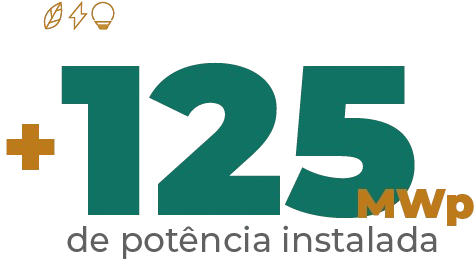
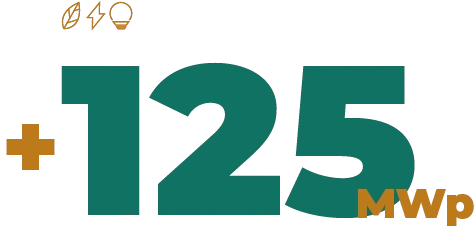
map component updated.

diff --git a/src/assets/components/layout/home/Mapa.jsx b/src/assets/components/layout/home/Mapa.jsx
@@ -17,15 +17,13 @@ function Mapa() {
           <img src="./images/125 completo.png" alt="125 MWp" className="destaque-img" />
         </div>
         <p className="texto-destaque">
-          e <strong>370</strong> colaboradores com
-          expertise técnica, garantindo excelência na gestão e execução de
-          obras em todo o país.
+          de potência instalada, garantindo excelência na gestão e execução de obras em todo o país.
         </p>
         <div className="map-btn" onClick={goTo}>
           <p>Conheça nosso portfólio</p>
         </div>
       </div>
-      <img src="./images/mapa do brasil 2.png" alt="Mapa do Brasil" loading="lazy" className="map-image" />
+      <img src="./images/mapa do brasil.webp" alt="Mapa do Brasil" loading="lazy" className="map-image" />
     </div>
   );
 }

diff --git a/src/assets/components/layout/home/CooperadaCoelba.css b/src/assets/components/layout/home/CooperadaCoelba.css
@@ -2,8 +2,7 @@
     background-color: white;
     /* Light grey background to distinguish section */
     padding: 4rem 2rem;
-    font-family: Arial, sans-serif;
-    color: #333;
+    color: #616160;
 }
 
 .cooperada-content {
@@ -49,20 +48,22 @@
 
 .cooperada-block {
     flex: 1;
-    background-color: white;
+    background-color: #047060;
     padding: 2rem;
     border-radius: 8px;
     box-shadow: 0 4px 6px rgba(0, 0, 0, 0.1);
     text-align: center;
-    font-weight: 400;
+    font-weight: 500;
     display: flex;
     align-items: center;
     justify-content: center;
     min-height: 100px;
-    color: #616160;
+    color: white;
+}
 
-
-    /* Theme color top border */
+.cooperada-block p {
+    color: white !important;
+    margin: 0;
 }
 
 .cooperada-footer {

diff --git a/src/assets/components/layout/home/Mapa.css b/src/assets/components/layout/home/Mapa.css
@@ -31,7 +31,7 @@
 .destaque-potencia {
   display: flex;
   align-items: center;
-  margin-bottom: 0;
+  margin-bottom: 20px;
   margin-left: -55px;
 }
 
